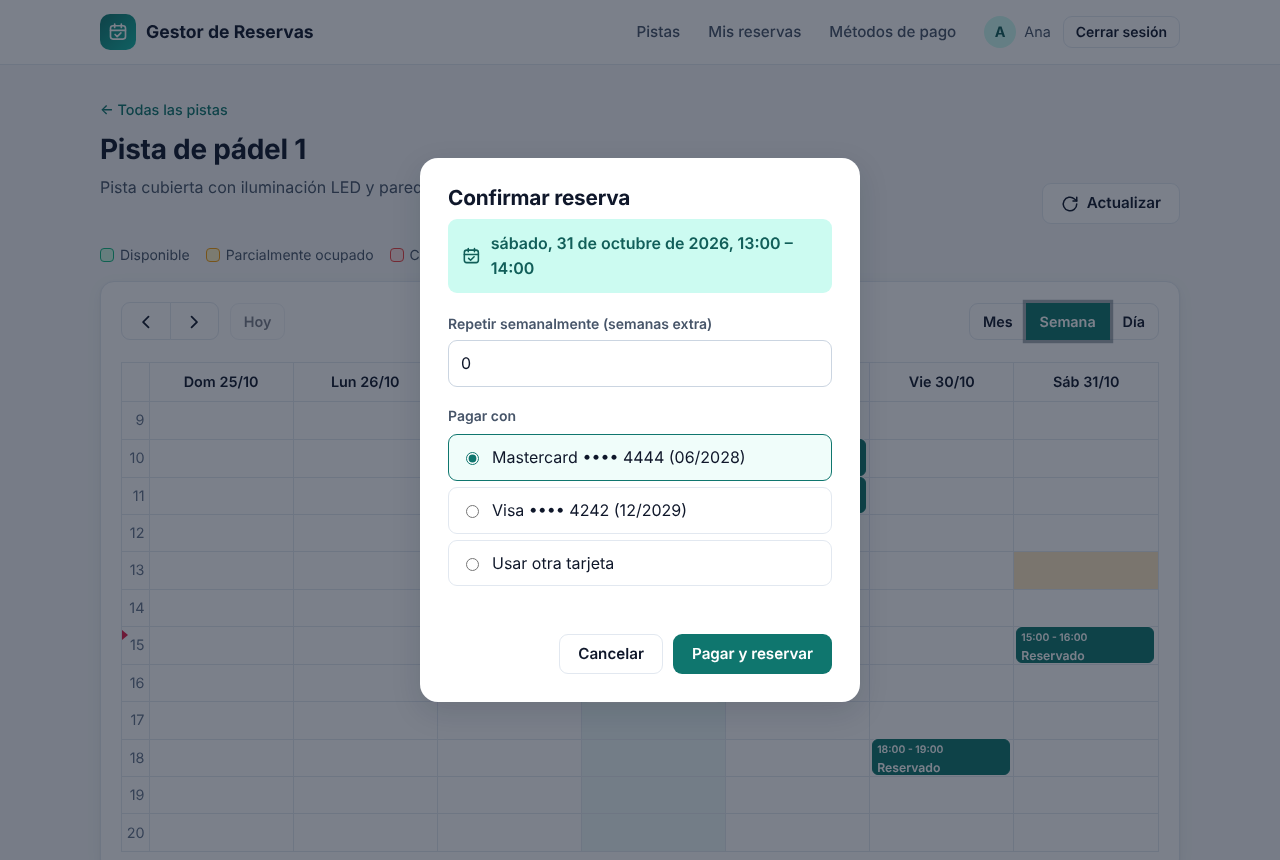
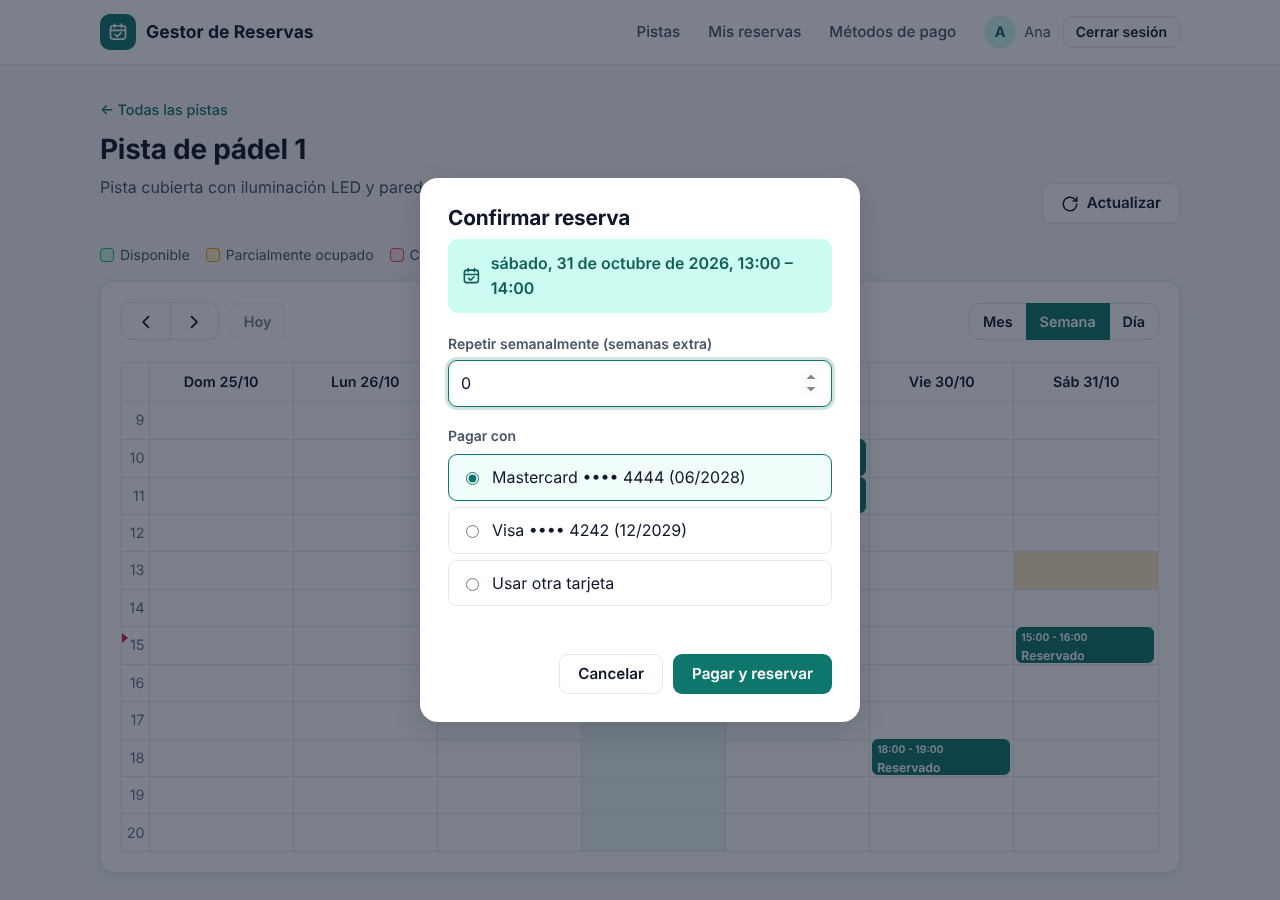
fix(HU6): accesibilidad señalada por SonarCloud
Modal de pago con <dialog> nativo, aria-live en los mensajes, contraste del icono,
animaciones solo sin "reducir movimiento" y login sin autofocus.

Claude-Session: https://claude.ai/code/session_01Ky3rjWvsbBZVTgv6bFMW8X

diff --git a/reservas/static/reservas/app.css b/reservas/static/reservas/app.css
@@ -96,7 +96,7 @@ main { padding: 32px 0 64px; }
     width: 36px;
     height: 36px;
     border-radius: 10px;
-    background: linear-gradient(135deg, var(--color-primario), #14b8a6);
+    background: var(--color-primario);
     color: #fff;
 }
 .menu {
@@ -179,9 +179,11 @@ main { padding: 32px 0 64px; }
     line-height: 1.2;
     text-decoration: none;
     cursor: pointer;
-    transition: background-color .15s ease, box-shadow .15s ease, transform .15s ease;
 }
-.boton:active { transform: translateY(1px); }
+@media (prefers-reduced-motion: no-preference) {
+    .boton { transition: background-color .15s ease, box-shadow .15s ease, transform .15s ease; }
+    .boton:active { transform: translateY(1px); }
+}
 .boton-primario { background: var(--color-primario); color: #fff; }
 .boton-primario:hover { background: var(--color-primario-oscuro); color: #fff; }
 .boton-secundario { background: var(--color-superficie); color: var(--color-texto); border-color: var(--color-borde); }
@@ -296,9 +298,12 @@ main { padding: 32px 0 64px; }
     flex-direction: column;
     overflow: hidden;
     padding: 0;
-    transition: transform .2s ease, box-shadow .2s ease;
 }
-.recurso:hover { transform: translateY(-3px); box-shadow: var(--sombra-elevada); }
+.recurso:hover { box-shadow: var(--sombra-elevada); }
+@media (prefers-reduced-motion: no-preference) {
+    .recurso { transition: transform .2s ease, box-shadow .2s ease; }
+    .recurso:hover { transform: translateY(-3px); }
+}
 .recurso-cabecera {
     display: grid;
     place-items: center;
@@ -474,28 +479,20 @@ main { padding: 32px 0 64px; }
     .fc .fc-col-header-cell-cushion { font-size: .75rem; }
 }
 
-/* === Modal de pago === */
-.modal {
-    display: none;
-    position: fixed;
-    inset: 0;
-    z-index: 2000;
-    align-items: center;
-    justify-content: center;
-    padding: 16px;
-    background: rgb(15 23 42 / 55%);
-}
-.modal.abierto { display: flex; }
-.modal-contenido {
-    width: 100%;
+/* === Modal de pago (elemento <dialog>) === */
+dialog.modal-contenido {
+    width: calc(100% - 32px);
     max-width: 440px;
     max-height: 92vh;
     overflow-y: auto;
     padding: 28px;
+    border: 0;
     border-radius: 18px;
     background: var(--color-superficie);
+    color: var(--color-texto);
     box-shadow: var(--sombra-elevada);
 }
+dialog.modal-contenido::backdrop { background: rgb(15 23 42 / 55%); }
 .modal-contenido h2 { font-size: 1.3rem; }
 .resumen {
     display: flex;

diff --git a/reservas/templates/reservas/calendario_full.html b/reservas/templates/reservas/calendario_full.html
@@ -41,8 +41,7 @@
 </div>
 
 <!-- Modal de pago (pago simulado, sin pasarela real) -->
-<div id="modal-pago" class="modal" role="dialog" aria-modal="true" aria-labelledby="modal-titulo">
-    <div class="modal-contenido">
+<dialog id="modal-pago" class="modal-contenido" aria-labelledby="modal-titulo">
         <h2 id="modal-titulo">Confirmar reserva</h2>
         <p class="resumen">
             {% include "reservas/icono_calendario.html" with tam=20 %}
@@ -87,8 +86,7 @@
             <button type="button" id="btn-cancelar" class="boton boton-secundario">Cancelar</button>
             <button type="button" id="btn-pagar" class="boton boton-primario">Pagar y reservar</button>
         </div>
-    </div>
-</div>
+</dialog>
 {% endblock %}
 
 {% block scripts %}
@@ -285,7 +283,7 @@
                     contenedor.appendChild(opcionMetodo('nueva', 'Usar otra tarjeta', false));
                 }
                 actualizarFormularioNueva();
-                modal.classList.add('abierto');
+                modal.showModal();
             }
 
             function opcionMetodo(valor, texto, marcado) {
@@ -303,10 +301,14 @@
             }
 
             function cerrarModalPago() {
-                modal.classList.remove('abierto');
+                modal.close();
+            }
+
+            // Al cerrar (botón Cancelar, tecla Escape o tras reservar) se borran los datos sensibles.
+            modal.addEventListener('close', function() {
                 document.getElementById('pago-numero').value = '';
                 document.getElementById('pago-cvv').value = '';
-            }
+            });
 
             document.getElementById('btn-cancelar').addEventListener('click', cerrarModalPago);
             document.getElementById('btn-pagar').addEventListener('click', function() {

diff --git a/reservas/templates/reservas/login.html b/reservas/templates/reservas/login.html
@@ -21,7 +21,7 @@
             {% csrf_token %}
             <div class="campo">
                 <label for="usuario">Usuario</label>
-                <input class="entrada" type="text" id="usuario" name="username" autocomplete="username" required autofocus>
+                <input class="entrada" type="text" id="usuario" name="username" autocomplete="username" required>
             </div>
             <div class="campo">
                 <label for="clave">Contraseña</label>

diff --git a/reservas/templates/reservas/base.html b/reservas/templates/reservas/base.html
@@ -42,7 +42,7 @@
     <main>
         <div class="contenedor {% block ancho %}{% endblock %}">
             {% if messages %}
-            <div class="mensajes" role="status">
+            <div class="mensajes" aria-live="polite">
                 {% for message in messages %}
                 <div class="mensaje mensaje-{{ message.tags|default:'info' }}">{{ message }}</div>
                 {% endfor %}

diff --git a/docs/AI_DEVELOPMENT_LOG.md b/docs/AI_DEVELOPMENT_LOG.md
@@ -82,6 +82,7 @@ Cada integrante agrega sus filas al trabajar en su rol.
 | 2026-10-28 | #5 | Claude | La vista nueva `mis_reservas` aceptaba cualquier método HTTP (GET, POST, etc.) aunque solo muestra datos | SonarCloud marcó el Quality Gate en rojo en el PR #11 (Security Rating B) | `@require_GET` en la vista y prueba de que POST responde 405 |
 | 2026-10-28 | #5 | Claude | `modificar_reserva_view` solo comprobaba que llegaran fecha y hora: una fecha imposible con formato correcto (`2026-13-45`) o una hora fuera de 0–23 (`25`, `-1`) daba error 500; la prueba de datos inválidos solo cubría texto no numérico | Segunda revisión del PR #11 hecha con Claude (sesión de Gabriel), enviando esos valores a mano | La vista valida fecha y hora y muestra "Indica una fecha y una hora válidas."; la prueba cubre los tres casos (fallaba antes del arreglo) |
 | 2026-10-28 | #13 | Claude | En la primera versión del rediseño el título del calendario salía "Octubre De 2026" (mayúscula en cada palabra) y la fecha del modal de pago en formato de EE. UU. ("10/31/2026, 1:00:00 p. m.") | Revisión de las capturas del navegador antes de abrir el PR | Solo la primera letra en mayúscula y fecha con formato en español ("sábado, 31 de octubre de 2026, 13:00") |
+| 2026-10-28 | #13 | Claude | El rediseño dejó 6 problemas de accesibilidad: modal con `role="dialog"` en lugar de `<dialog>`, mensajes con `role="status"`, icono blanco sobre un degradado con poco contraste, animaciones sin respetar "reducir movimiento" y `autofocus` en el login | SonarCloud en el PR #14 (6 issues nuevos, el Quality Gate pasó igual) | Modal con `<dialog>` nativo (se cierra con Escape y borra el número y el CVV al cerrarse), `aria-live` en los mensajes, icono sobre color sólido, animaciones dentro de `prefers-reduced-motion: no-preference` y sin `autofocus` |
 
 ## Cambios de la IA rechazados
 
